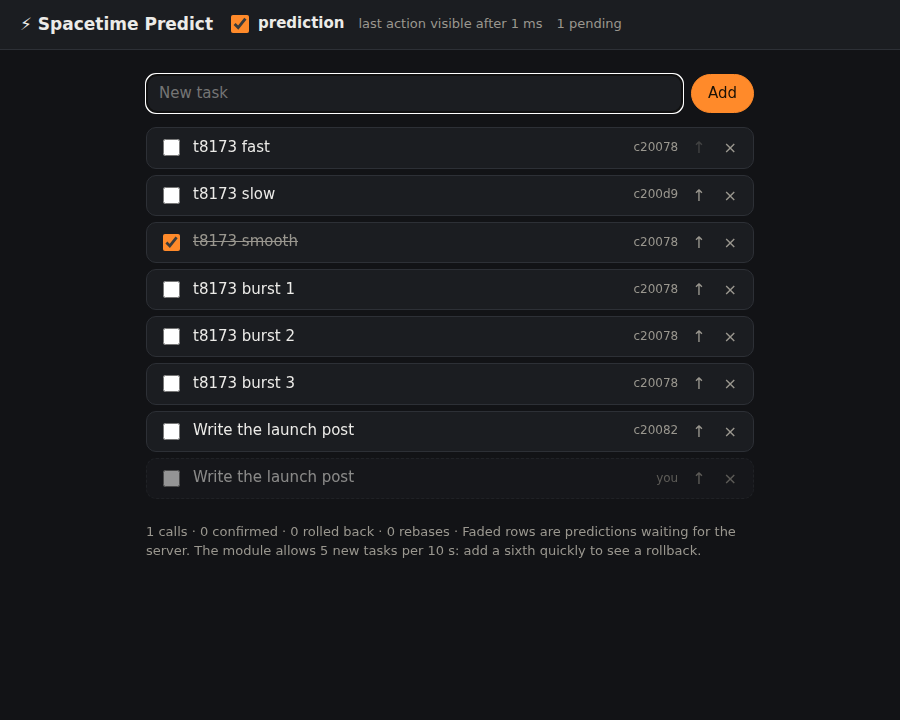
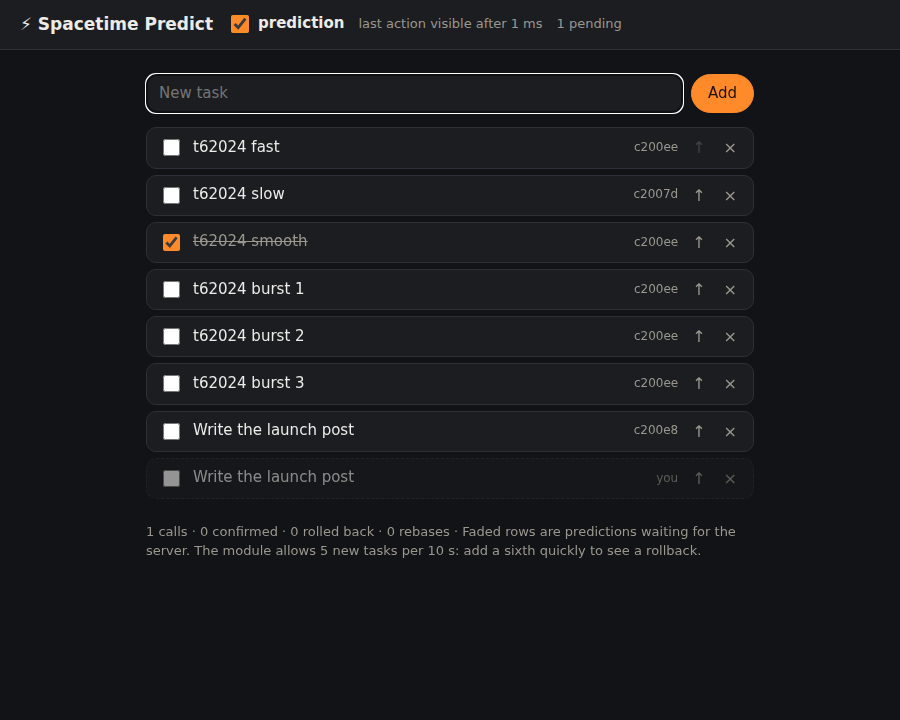
Package for npm (@pogly/spacetimedb-predict 0.1.0), CI and publish workflows

diff --git a/client/src/shim.ts b/client/src/shim.ts
@@ -11,7 +11,7 @@
  * `ctx.random`. Write the shared logic so those checks happen in the module's wrapper, or accept
  * that the prediction is optimistic and the server may still refuse (which rolls it back).
  */
-import type { Draft, DraftTable } from './index';
+import type { Draft, DraftTable } from './index.js';
 
 /** Accessors for one table: unique columns (by field name) and btree indexes (by accessor name). */
 export interface ShimTableSpec<Row> {

diff --git a/client/src/react.ts b/client/src/react.ts
@@ -12,7 +12,7 @@
  * ```
  */
 import { useCallback, useRef, useSyncExternalStore } from 'react';
-import type { Draft, Predictor, CallOptions } from './index';
+import type { Draft, Predictor, CallOptions } from './index.js';
 
 /** The predicted rows of one table; re-renders when they change. */
 export function usePredicted<T extends Record<string, unknown>, K extends keyof T & string>(p: Predictor<T>, table: K): readonly T[K][] {

diff --git a/client/README.md b/client/README.md
@@ -1,0 +1,31 @@
+# @pogly/spacetimedb-predict
+
+Optimistic updates and client-side prediction for SpacetimeDB clients (experimental). Call a reducer and the UI
+changes at once; the prediction is re-run on every server change until the reply comes back, then the real rows take
+over without a flicker. Refused or timed-out calls roll back.
+
+```bash
+npm install @pogly/spacetimedb-predict
+```
+
+```ts
+import { predict } from '@pogly/spacetimedb-predict';
+
+const p = predict({ task: { table: conn.db.task, key: (t) => t.id, autoInc: 'id' } });
+
+await p.call(
+  () => conn.reducers.toggleTask({ id }),
+  (d) => {
+    const t = d.task.find(id);
+    if (t) d.task.update({ ...t, done: !t.done });
+  }
+);
+p.subscribe(() => render(p.table('task').rows()));
+```
+
+- React: `usePredicted(p, 'task')` and `usePredictedCall(p, send, prediction)` from `@pogly/spacetimedb-predict/react`.
+- Shared reducer logic (TypeScript modules): `shimDb(draft, { task: { unique: ['id'] } })` from
+  `@pogly/spacetimedb-predict/shim` gives the logic a `ctx.db` over the prediction.
+
+The full README, a demo and the measurements are in the
+[repository](https://github.com/Gazz-Stripbolt/spacetimedb-predict).

diff --git a/README.md b/README.md
@@ -9,7 +9,9 @@ reply comes back, then the server's real rows take over without a flicker. If th
 rolls back. With a TypeScript module you can **write the logic once** and run the module's own reducer code as the
 prediction.
 
+[![CI](https://github.com/Gazz-Stripbolt/spacetimedb-predict/actions/workflows/ci.yml/badge.svg)](https://github.com/Gazz-Stripbolt/spacetimedb-predict/actions/workflows/ci.yml)
 ![Experimental](https://img.shields.io/badge/status-experimental-c2410c)
+[![npm](https://img.shields.io/npm/v/@pogly/spacetimedb-predict?label=npm%20%40pogly%2Fspacetimedb-predict&color=cb3837)](https://www.npmjs.com/package/@pogly/spacetimedb-predict)
 ![SpacetimeDB 2.11](https://img.shields.io/badge/SpacetimeDB-2.11-e8730c)
 ![TypeScript](https://img.shields.io/badge/TypeScript-client-3178c6)
 ![React hooks](https://img.shields.io/badge/React-hooks-149eca)
@@ -31,6 +33,10 @@ prediction.
 | Visible flicker when the server confirms | none (checked every frame) |
 
 ## Use it
+
+```bash
+npm install @pogly/spacetimedb-predict
+```
 
 ```ts
 import { predict } from '@pogly/spacetimedb-predict';

diff --git a/client/CHANGELOG.md b/client/CHANGELOG.md
@@ -1,0 +1,14 @@
+# Changelog
+
+All notable changes to `@pogly/spacetimedb-predict` are listed here. It follows [semantic versioning](https://semver.org/).
+While it's 0.x and experimental, minor versions may change the API.
+
+## 0.1.0 (2026-10-11)
+
+First release.
+
+- `predict()`: a prediction layer over the SpacetimeDB client cache. `call()` shows a prediction at once, re-runs it
+  on every server change (rebase), drops it when the call returns, and rolls it back on errors and timeouts.
+- Temporary ids for auto-inc inserts (`isTempId`), `isPending` / `isPredicted` per row, `stats`, `resync()`.
+- React: `usePredicted`, `usePredictedCall`.
+- `shimDb`: `ctx.db` over a prediction draft, so a TypeScript module's reducer logic can run as the prediction.
